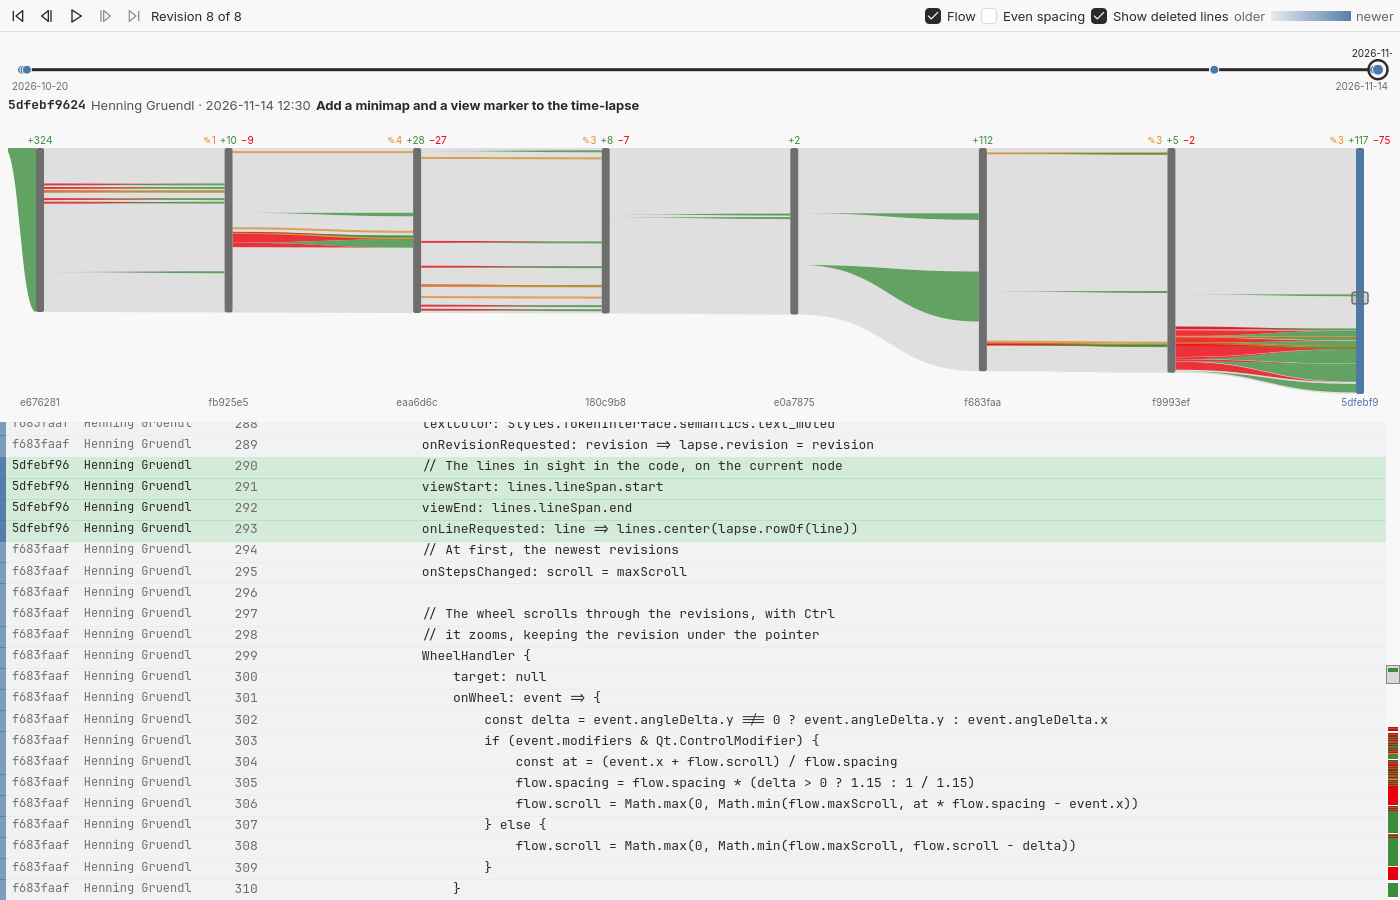
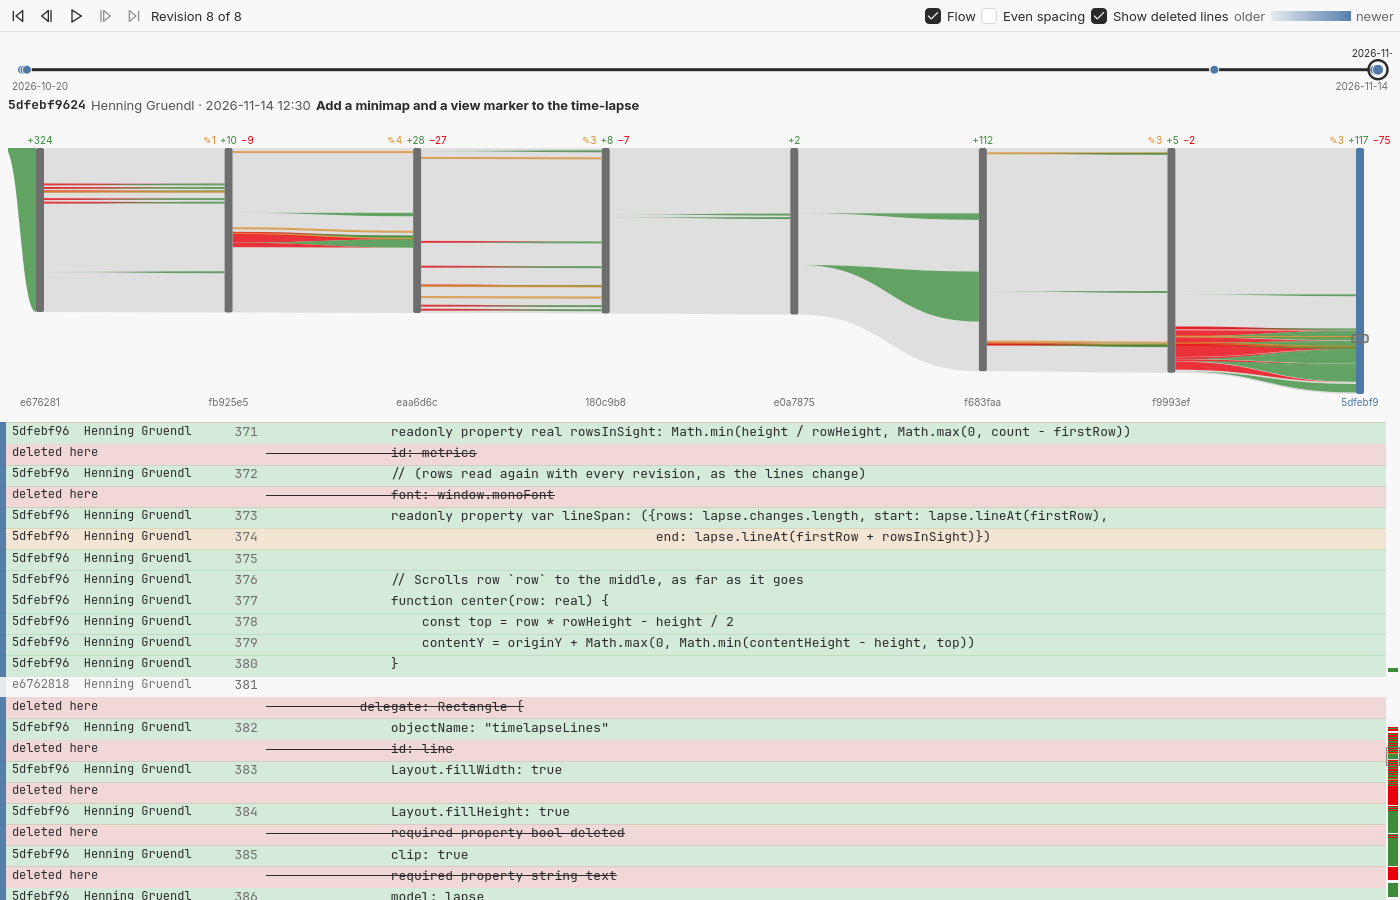
Show the flow and the change strip on the webpage
The flow had a paragraph shared with the rest of the time-lapse, and
its screenshot showed the strip of changes beside the scroll bar only
14 px wide, with nothing but added lines in the code.

The flow now has a description of its own, and a screenshot with
added, edited and removed lines in the code beneath it. The strip has
its own close-up, taken at twice the size, beside a description.

diff --git a/pages/index.html b/pages/index.html
@@ -60,6 +60,17 @@
     box-shadow: 0 20px 50px rgb(0 0 0 / 0.12);
   }
 
+  /* A close-up beside its text, half its pixels wide to stay sharp on a
+     high-density screen; under it on a phone */
+  .detail { display: flex; gap: 28px; align-items: center; margin: 8px 0 48px; }
+  .detail p { flex: 1; margin: 0; }
+  .detail img {
+    display: block; width: 420px; max-width: 100%; height: auto; flex: none;
+    border-radius: 12px; border: 1px solid var(--border);
+    box-shadow: 0 20px 50px rgb(0 0 0 / 0.12);
+  }
+  @media (max-width: 640px) { .detail { flex-direction: column; } }
+
   /* The themes side by side, two to a row, one on a phone */
   .themes { display: grid; grid-template-columns: repeat(2, minmax(0, 1fr)); gap: 16px; margin: 16px 0 48px; }
   .themes figure { margin: 0; }
@@ -134,16 +145,27 @@
        alt="The compose window: commits not merged yet beside a group of changes, with the timeline above them">
 
   <h2>A file's history</h2>
-  <p>The time-lapse view shows a file as it was at any revision, each line blamed to
-    the revision that last changed it, with what that revision added, edited and
-    removed in green, orange and red, and a minimap of those changes beside the code.
-    Switch on Flow to see the whole history at once: each revision is a node as long as
-    the file was then, and the lines flow between them, kept ones in gray, removed ones
+  <p>Switch on Flow in the time-lapse view to see a file's whole history at once, as a
+    Sankey diagram. Each commit that touched the file is a node, a bar as long as the
+    file was then, line 1 at the top. Between two nodes the lines flow from their old
+    place to their new one: kept lines in gray, edited ones in orange, removed ones
     narrowing in red to where they went, added ones widening in green from where they
-    came. Click a node to show that revision, or drag along the current one to scroll
-    the code. <a href="https://github.com/iam-peter/igitt#time-lapse-view">More in the README</a>.</p>
+    came. Above each node its counts, below it its commit. Click a node to show that
+    revision underneath, with what it added, edited and removed in the same colors;
+    the wheel scrolls through the history and Ctrl+wheel zooms.
+    <a href="https://github.com/iam-peter/igitt#time-lapse-view">More in the README</a>.</p>
   <img class="shot" src="flow.png" width="1400" height="900" loading="lazy"
-       alt="The flow of a file through eight revisions above the lines the newest one added, with the minimap beside them">
+       alt="The flow of TimelapseWindow.qml through eight commits, above the newest one's lines: added in green, edited in orange, deleted in red">
+
+  <div class="detail">
+    <p>Beside the scroll bar, a strip shows the whole file at once with the changes of
+      the revision on display: green where it added lines, orange where it edited
+      them, red where it removed them, and a frame around the lines in sight. Click or
+      drag it to jump there. On the flow, the current node marks the same lines, and
+      dragging along it scrolls the code too.</p>
+    <img src="change-bar.png" width="840" height="876" loading="lazy"
+         alt="Close-up of the code beside its change strip: green, orange and red marks down the whole file, and a frame around the lines in sight">
+  </div>
 
   <h2>Themes</h2>
   <p>igitt draws its controls in a style of its own and takes every color from a theme,

diff --git a/README.md b/README.md
@@ -115,7 +115,7 @@ to show that revision; on the current one, a marker shows the lines in
 sight in the code, and clicking or dragging along it scrolls there. The
 wheel scrolls through the revisions, Ctrl+wheel zooms.
 
-![The flow of TimelapseWindow.qml through eight revisions, above the lines the newest one added, with the minimap beside them](docs/screenshots/flow.png)
+![The flow of TimelapseWindow.qml through eight commits, above the newest one's lines: added in green, edited in orange, deleted in red](docs/screenshots/flow.png)
 
 ![The time-lapse of Repository.h at the revision that moved git onto a background thread](docs/screenshots/timelapse.png)
 
